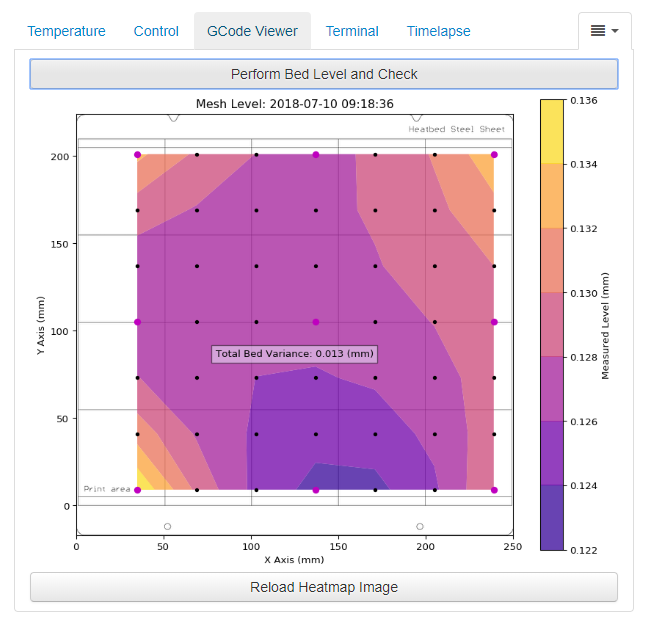
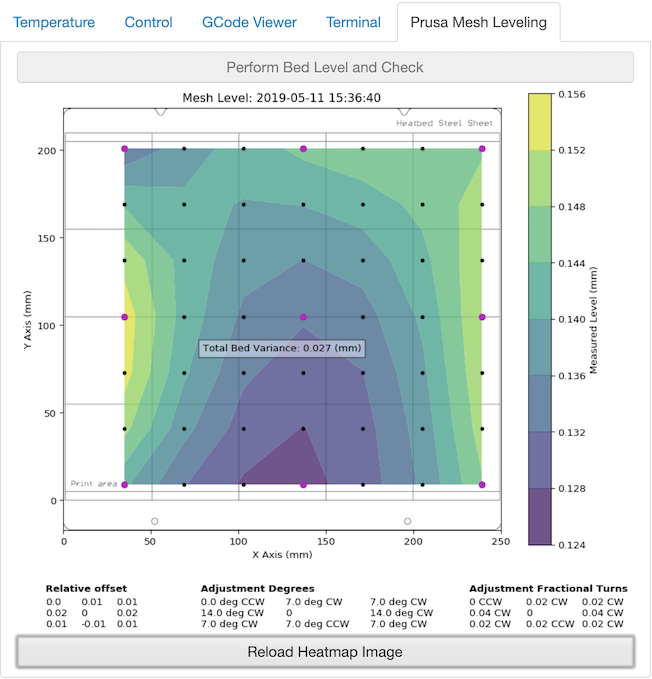
Added display of adjustments needed to graph - based on https://github.com/pcboy/g81_relative Updated example image Bumped version to 0.3.1

diff --git a/octoprint_PrusaMeshMap/__init__.py b/octoprint_PrusaMeshMap/__init__.py
@@ -10,6 +10,8 @@ from __future__ import absolute_import
 # Take a look at the documentation on what other plugin mixins are available.
 
 import datetime
+from fractions import Fraction
+
 import numpy as np
 import matplotlib
 matplotlib.use('Agg')
@@ -19,6 +21,26 @@ import re
 import octoprint.plugin
 import octoprint.printer
 
+# This is based on code from https://github.com/pcboy/g81_relative
+def convertDistanceToDegrees(distance):
+    screw_pitch = 0.5
+    deg = distance/screw_pitch*360
+    dir = "CCW"
+    if deg > 0:
+        dir = "CW"
+    return "{} deg {}".format( abs(round(deg)), dir)
+
+def convertDistanceToFractionalTurns(distance):
+    screw_pitch = 0.5
+    rat = round(Fraction(distance/screw_pitch),2)
+    if rat == 0/1:
+        rat = 0
+    dir = "CCW"
+    if rat > 0:
+        dir = "CW"
+
+    return "{} {}".format( abs(rat), dir )
+    
 class PrusameshmapPlugin(octoprint.plugin.SettingsPlugin,
                          octoprint.plugin.AssetPlugin,
                          octoprint.plugin.TemplatePlugin,
@@ -81,12 +103,32 @@ class PrusameshmapPlugin(octoprint.plugin.SettingsPlugin,
 			)
 		)
 
+        def test(self):
+            data = """Recv:   0.13250  0.13778  0.14194  0.14500  0.14694  0.14778  0.14750
+Recv:   0.14361  0.14097  0.13979  0.14009  0.14186  0.14510  0.14981
+Recv:   0.15083  0.14251  0.13754  0.13593  0.13766  0.14276  0.15120
+Recv:   0.15417  0.14241  0.13519  0.13250  0.13435  0.14074  0.15167
+Recv:   0.15361  0.14066  0.13273  0.12981  0.13192  0.13905  0.15120
+Recv:   0.14917  0.13726  0.13016  0.12787  0.13038  0.13770  0.14981
+Recv:   0.14083  0.13222  0.12750  0.12667  0.12972  0.13667  0.14750
+"""
+            lines = data.replace( "Recv: ", "").split( "\n" )
+
+            for line in lines:
+                self.mesh_level_check( None, line )
+
+        # Uncomment the below to test on startup
+        #def get_template_vars(self):
+        #    self.test()
+        #    return []
+
+
         ##~~ GCode Received hook
 
         def mesh_level_check(self, comm, line, *args, **kwargs):
                 if re.match(r"^(  -?\d+.\d+)+$", line):
                     self.mesh_level_responses.append(line)
-                    self._logger.info("FOUND: " + line)
+                    #self._logger.info("FOUND: " + line)
                     self.mesh_level_generate()
                     return line
                 else:
@@ -95,6 +137,42 @@ class PrusameshmapPlugin(octoprint.plugin.SettingsPlugin,
         ##~~ Mesh Bed Level Heatmap Generation
 
         mesh_level_responses = []
+
+                        
+        # Converts outut of G81 (bed leveling) to relative with center point 0
+        # This is based on code from https://github.com/pcboy/g81_relative
+        def processPoints( self, mesh_values ):
+
+            print( "{}\t{}\t{}".format( mesh_values[0][0], mesh_values[0][3], mesh_values[0][6] ) )
+            print( "{}\t{}\t{}".format( mesh_values[3][0], mesh_values[3][3], mesh_values[3][6] ) )
+            print( "{}\t{}\t{}".format( mesh_values[6][0], mesh_values[6][3], mesh_values[6][6] ) )
+
+            # Convert values to relative offsets from the middle
+            middle = float(mesh_values[3][3])
+            top_left = round(float(mesh_values[0][0]) - middle, 2)
+            top_center = round(float(mesh_values[0][3]) - middle, 2)
+            top_right = round(float(mesh_values[0][6]) - middle, 2)
+            middle_left = round(float(mesh_values[3][0]) - middle, 2)
+            middle_right = round(float(mesh_values[3][6]) - middle, 2)
+            bottom_left = round(float(mesh_values[6][0]) - middle, 2)
+            bottom_center = round(float(mesh_values[6][3]) - middle, 2)
+            bottom_right = round(float(mesh_values[6][6]) - middle, 2)
+
+            ro1 = "Relative offset"
+            ro2 = "{}\n{}\n{}".format( top_left, middle_left, bottom_left )
+            ro3 = "{}\n{}\n{}".format( top_center, 0, bottom_center )
+            ro4 = "{}\n{}\n{}".format( top_right, middle_right, bottom_right )
+
+            ad1 = "Adjustment Degrees"
+            ad2 = "{}\n{}\n{}".format( convertDistanceToDegrees(top_left), convertDistanceToDegrees(middle_left), convertDistanceToDegrees(bottom_left) )
+            ad3 = "{}\n{}\n{}".format( convertDistanceToDegrees(top_center), 0, convertDistanceToDegrees(bottom_center) )
+            ad4 = "{}\n{}\n{}".format( convertDistanceToDegrees(top_right), convertDistanceToDegrees(middle_right), convertDistanceToDegrees(bottom_right) )
+
+            aft1 = "Adjustment Fractional Turns"
+            aft2 = "{}\n{}\n{}".format( convertDistanceToFractionalTurns(top_left), convertDistanceToFractionalTurns(middle_left), convertDistanceToFractionalTurns(bottom_left) )
+            aft3 = "{}\n{}\n{}".format( convertDistanceToFractionalTurns(top_center), 0, convertDistanceToFractionalTurns(bottom_center) )
+            aft4 = "{}\n{}\n{}".format( convertDistanceToFractionalTurns(top_right), convertDistanceToFractionalTurns(middle_right), convertDistanceToFractionalTurns(bottom_right) )
+            return [[ro1, ro2, ro3, ro4], [ad1, ad2, ad3, ad4], [aft1, aft2, aft3, aft4]]
 
         def mesh_level_generate(self):
 
@@ -167,6 +245,8 @@ class PrusameshmapPlugin(octoprint.plugin.SettingsPlugin,
                     response = re.sub(r"[ ]+", ",", response)
                     mesh_values.append([float(i) for i in response.split(",")])
 
+                adjustments = self.processPoints( mesh_values )
+
                 # Generate a 2D array of the Z values in column-major order
                 col_i = 0
                 mesh_z = np.zeros(shape=(7,7))
@@ -232,6 +312,21 @@ class PrusameshmapPlugin(octoprint.plugin.SettingsPlugin,
                 
                 plt.text(0.5, 0.43, "Total Bed Variance: " + str(bed_variance) + " (mm)", fontsize=10, horizontalalignment='center', verticalalignment='center', transform=ax.transAxes, bbox=dict(facecolor='#eeefff', alpha=0.5))
 
+                # Display the adjustments below the graph
+                plt.figtext(0.1, 0.03, adjustments[0][0], fontWeight="semibold") 
+                plt.figtext(0.1, -0.03, adjustments[0][1]) 
+                plt.figtext(0.15, -0.03, adjustments[0][2]) 
+                plt.figtext(0.20, -0.03, adjustments[0][3]) 
+
+                plt.figtext(0.32, 0.03, adjustments[1][0], fontWeight="semibold") 
+                plt.figtext(0.32, -0.03, adjustments[1][1]) 
+                plt.figtext(0.44, -0.03, adjustments[1][2]) 
+                plt.figtext(0.56, -0.03, adjustments[1][3]) 
+                
+                plt.figtext(0.7, 0.03, adjustments[2][0], fontWeight="semibold") 
+                plt.figtext(0.7, -0.03, adjustments[2][1]) 
+                plt.figtext(0.78, -0.03, adjustments[2][2]) 
+                plt.figtext(0.86, -0.03, adjustments[2][3]) 
                 # Save our graph as an image in the current directory.
                 fig.savefig(self.get_asset_folder() + '/img/heatmap.png', bbox_inches="tight")
                 self._logger.info("Heatmap updated")

diff --git a/setup.py b/setup.py
@@ -14,7 +14,7 @@ plugin_package = "octoprint_PrusaMeshMap"
 plugin_name = "OctoPrint-PrusaMeshMap"
 
 # The plugin's version. Can be overwritten within OctoPrint's internal data via __plugin_version__ in the plugin module
-plugin_version = "0.3.0"
+plugin_version = "0.3.1"
 
 # The plugin's description. Can be overwritten within OctoPrint's internal data via __plugin_description__ in the plugin
 # module

diff --git a/CHANGELOG.md b/CHANGELOG.md
@@ -1,5 +1,9 @@
 # Changelog
 
+## v0.3.1
+
+** Added display of what adjustments need to be made to graph
+
 ## v0.2.1
 
 **Bug Fixes:**
